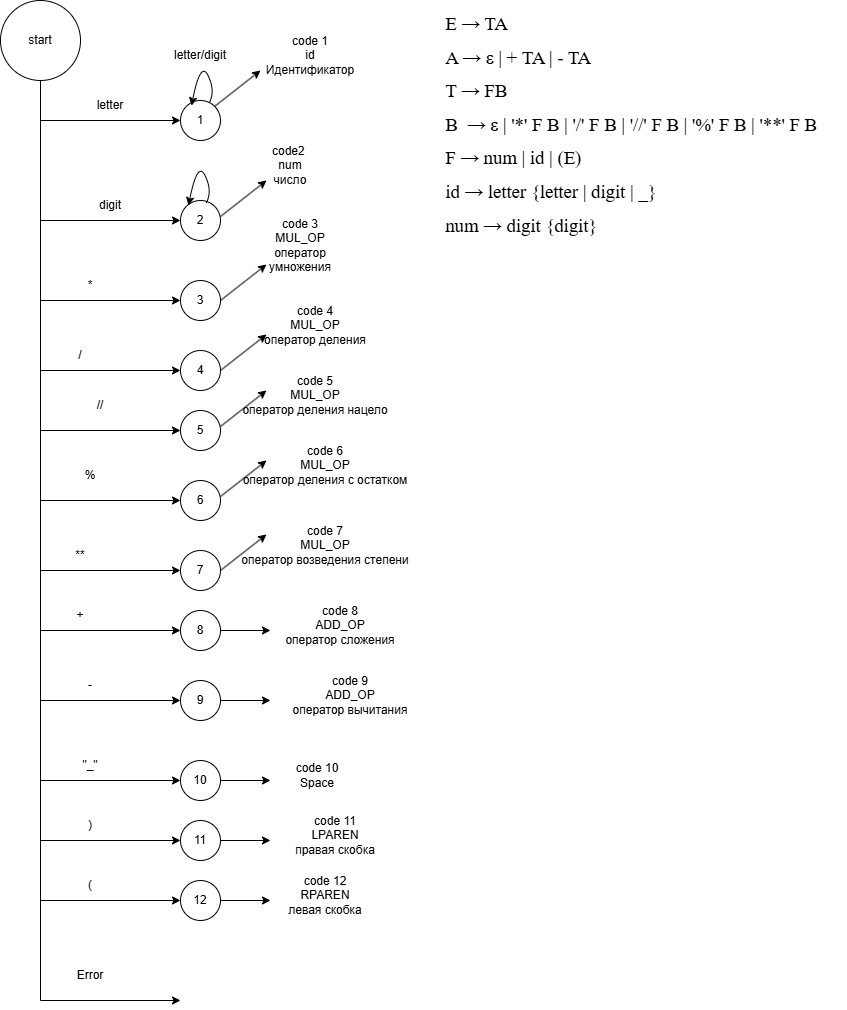
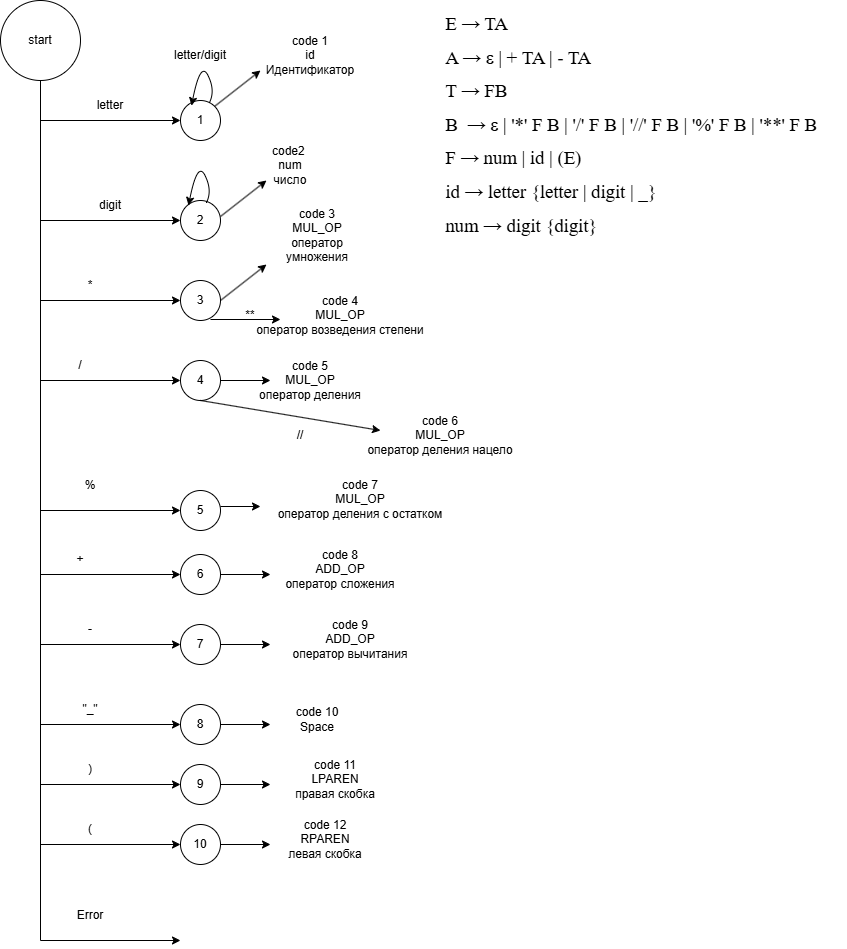
72

diff --git a/README.md b/README.md
@@ -192,7 +192,7 @@ a + @b
 
 ![Примеры](screenshot/6lab.png)
 
-![Примеры](screenshot/PC_6.png)
+![Примеры](screenshot/PC_6lab.png)
 
 
 
